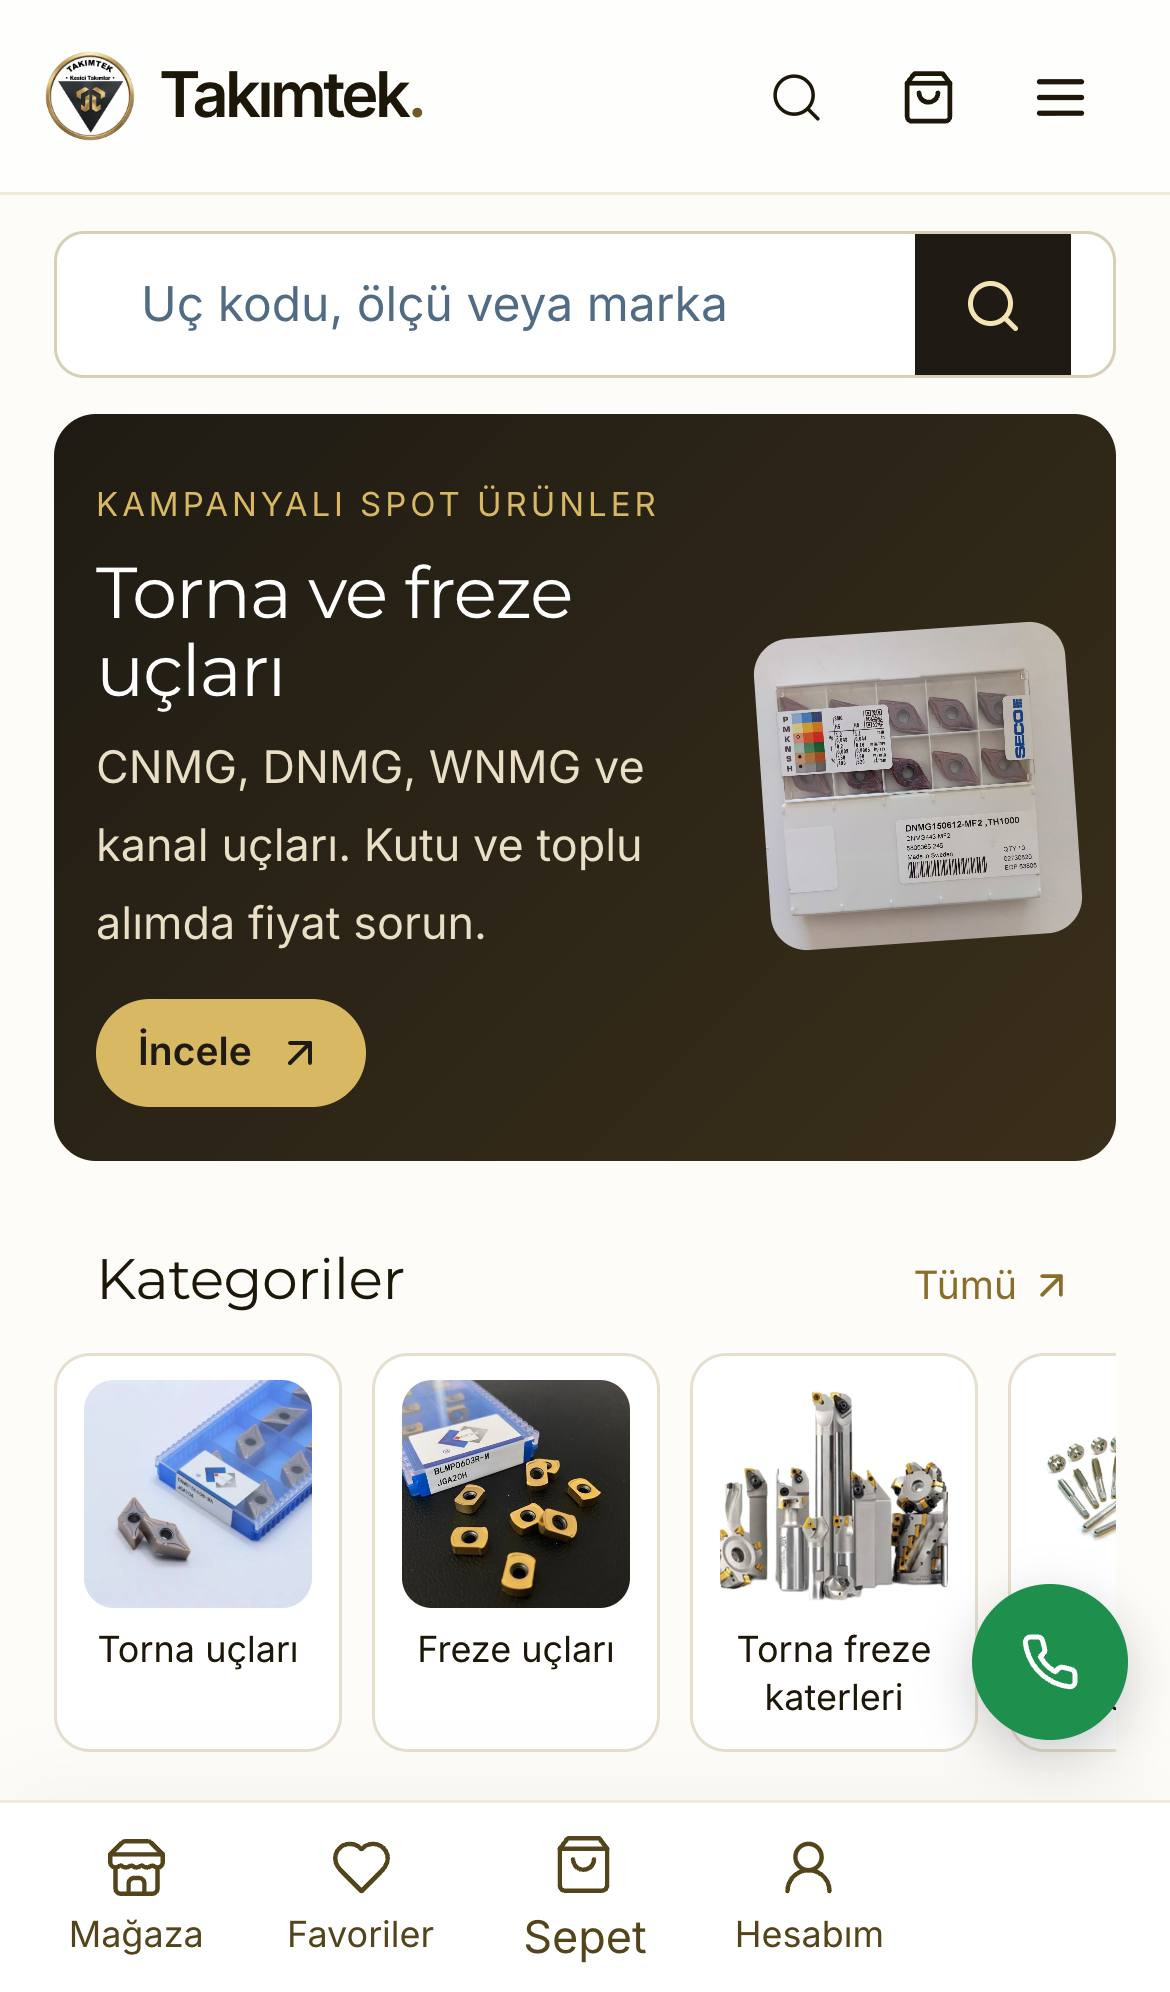
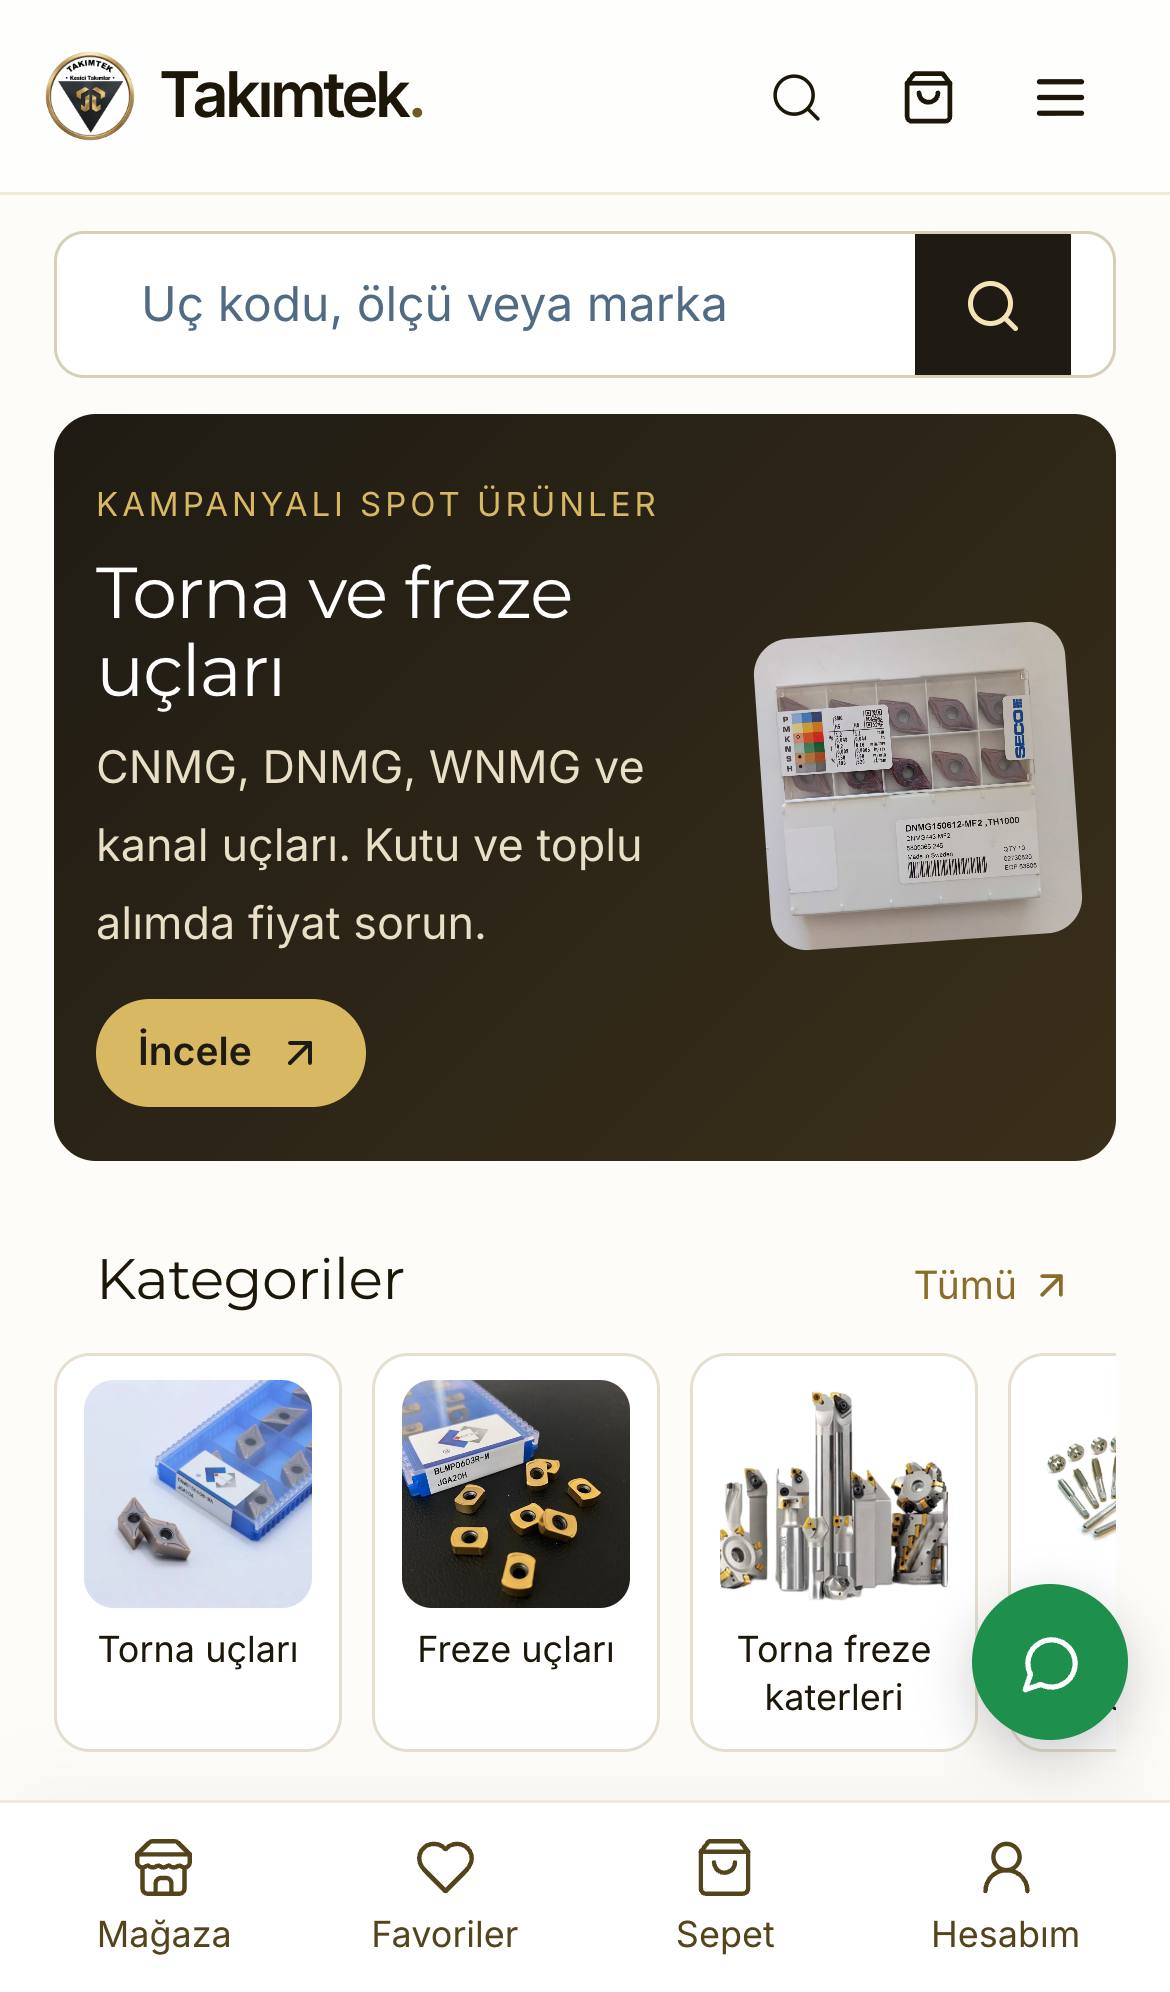
Mac and iPhone mockups on project pages; link active work to demos

diff --git a/src/components/world/Workshop.tsx b/src/components/world/Workshop.tsx
@@ -100,6 +100,7 @@ export function Workshop() {
       <div className="world-items">{region.panel.items.map(item => <article key={item.title.en} className={item.level ? `world-level-${item.level}` : undefined}>
         <h3>{item.active && <i className="world-live" aria-label={tr ? "Devam ediyor" : "Current"} />}{item.title[language]}</h3><p>{item.description[language]}</p>
         {item.tags && <ul className="world-tags">{item.tags.map(tag => <li key={tag}>{tag}</li>)}</ul>}
+        {item.href && <Link className="world-item-link" href={item.href}>{tr ? "Demoyu ve ekranları gör" : "See the demo and screens"}<ArrowUpRight size={14} /></Link>}
       </article>)}</div>
       {region.panel.link && <Link className="world-action" href={region.panel.link.href}>{region.panel.link.label[language]}<ArrowUpRight size={16} /></Link>}
       {region.id === "iletisim" && contact}
@@ -130,7 +131,7 @@ export function Workshop() {
         <p className="world-title">{tr ? <>Yazılım mühendisi<br />Full stack ve otomasyon</> : <>Software engineer<br />Full stack and automation</>}</p>
         </div><Image src="/emir.jpg" width={480} height={480} alt="Emir Aydın" className="world-photo" priority /></div>
         <div className="world-roles">{currentRoles.map((role, index) => <p key={role.company} className={`world-role-${index + 1}`}><strong><i className="world-live" aria-label={tr ? "Devam ediyor" : "Current"} />{role.company}</strong><span>{role.role[language]}</span></p>)}</div>
-        <div className="world-now"><p className="world-now-head"><i className="world-live" />{tr ? "Şu an üretimde" : "In production now"}</p>{activeProjects.map(item => <button key={item.title.en} onClick={() => open("aktif")}><span>{item.title[language]}</span><ArrowUpRight size={14} /></button>)}</div>
+        <div className="world-now"><p className="world-now-head"><i className="world-live" />{tr ? "Şu an üretimde" : "In production now"}</p>{activeProjects.map(item => item.href ? <Link key={item.title.en} href={item.href}><span>{item.title[language]}</span><ArrowUpRight size={14} /></Link> : <button key={item.title.en} onClick={() => open("aktif")}><span>{item.title[language]}</span><ArrowUpRight size={14} /></button>)}</div>
         <p className="world-intro">{tr ? "Aile atölyemizde CNC tornanın teknik tarafındayım, Adaant Bilişim Teknolojileri'nde full stack developer olarak çalışıyorum. Küçük işletmelere satış siteleri ve iş takip araçları yapıyorum." : "I handle the technical side of our family CNC turning shop and work as a full stack developer at Adaant Bilişim Teknolojileri. I also build sales websites and job-tracking tools for small businesses."}</p>
         <div className="world-primary-actions"><a href={siteConfig.links.email}>{tr ? "E-posta yaz" : "Send an email"}<ArrowUpRight size={16} /></a><a href={siteConfig.cvPaths[language]} download>{tr ? "CV indir" : "Download CV"}<Download size={16} /></a></div>
         <nav className="world-index" aria-label={tr ? "Atölye bölgeleri" : "Workshop regions"}>{worldRegions.map(region => <button key={region.id} onClick={() => open(region.id)}><span style={{ color: region.color }}>{String(region.hotkey).padStart(2, "0")}</span><span><strong>{region.name[language]}</strong><small>{region.description[language]}</small></span><ArrowUpRight size={15} /></button>)}</nav>
@@ -138,7 +139,7 @@ export function Workshop() {
     </section>
 
     <section className="world-mobile-index" aria-label={tr ? "Atölye bölgeleri" : "Workshop regions"}>
-      <div className="world-mobile-intro"><div className="world-hero"><h1>{siteConfig.name}</h1><Image src="/emir.jpg" width={480} height={480} alt="Emir Aydın" className="world-photo" /></div><p>{tr ? "Yazılım mühendisi · full stack ve otomasyon" : "Software engineer · full stack and automation"}</p><p>{currentRoles.map(role => role.company).join(" · ")}</p><div className="world-now world-now-mobile"><p className="world-now-head"><i className="world-live" />{tr ? "Şu an üretimde" : "In production now"}</p>{activeProjects.map(item => <button key={item.title.en} onClick={() => open("aktif")}><span>{item.title[language]}</span><ArrowUpRight size={14} /></button>)}</div><div className="world-primary-actions"><a href={siteConfig.links.email}>{tr ? "E-posta yaz" : "Send an email"}</a><a href={siteConfig.cvPaths[language]} download>{tr ? "CV indir" : "Download CV"}</a></div></div>
+      <div className="world-mobile-intro"><div className="world-hero"><h1>{siteConfig.name}</h1><Image src="/emir.jpg" width={480} height={480} alt="Emir Aydın" className="world-photo" /></div><p>{tr ? "Yazılım mühendisi · full stack ve otomasyon" : "Software engineer · full stack and automation"}</p><p>{currentRoles.map(role => role.company).join(" · ")}</p><div className="world-now world-now-mobile"><p className="world-now-head"><i className="world-live" />{tr ? "Şu an üretimde" : "In production now"}</p>{activeProjects.map(item => item.href ? <Link key={item.title.en} href={item.href}><span>{item.title[language]}</span><ArrowUpRight size={14} /></Link> : <button key={item.title.en} onClick={() => open("aktif")}><span>{item.title[language]}</span><ArrowUpRight size={14} /></button>)}</div><div className="world-primary-actions"><a href={siteConfig.links.email}>{tr ? "E-posta yaz" : "Send an email"}</a><a href={siteConfig.cvPaths[language]} download>{tr ? "CV indir" : "Download CV"}</a></div></div>
       {worldRegions.map(region => <button key={region.id} onClick={() => open(region.id)}><span style={{ color: region.color }}>{String(region.hotkey).padStart(2, "0")}</span><span><strong>{region.name[language]}</strong><small>{region.description[language]}</small></span><ArrowUpRight size={18} /></button>)}
     </section>
     <dialog ref={dialog} className="world-sheet" aria-labelledby={selected ? `sheet-title-${selected.id}` : undefined} onCancel={event => { event.preventDefault(); close(); }} onClick={event => { if (event.target === event.currentTarget) { const bounds = event.currentTarget.getBoundingClientRect(); if (event.clientY < bounds.top || event.clientX < bounds.left || event.clientX > bounds.right) close(); } }}>

diff --git a/src/data/world.ts b/src/data/world.ts
@@ -2,7 +2,7 @@ import { currentlyBuildingProjects, siteConfig } from "./site";
 import { careerTimeline } from "./career";
 
 type Text = { tr: string; en: string };
-export interface WorldItem { title: Text; description: Text; tags?: readonly string[]; level?: 1 | 2 | 3; active?: boolean }
+export interface WorldItem { title: Text; description: Text; tags?: readonly string[]; level?: 1 | 2 | 3; active?: boolean; href?: string }
 export interface WorldRegion {
   id: string;
   hotkey: number;
@@ -29,8 +29,8 @@ export const worldContactLinks = [
 ];
 
 export const activeProjects: WorldItem[] = [
-  { title: { tr: "Telefon servis ve satış sitesi", en: "Phone repair and sales website" }, description: { tr: "Bir telefon dükkânı için satış ve teknik servis sitesi. Dükkân sahibi ürünü telefonundan ekliyor, siparişler havale ve WhatsApp ile geliyor. Altyapıyı başka dükkânlara da kurulabilecek şekilde hazırladım.", en: "A sales and repair website for a phone shop. The owner adds products from their phone, and orders come in by bank transfer or WhatsApp. I built it so it can be set up for other shops too." }, tags: ["Next.js", "Supabase", "Vercel"] },
-  { title: { tr: "Kesici takım mağazası", en: "Cutting tools store" }, description: { tr: "Kesici takım ve teknik hırdavat satan bir tedarikçi için mağaza. Uç koduyla arama, kategori ve marka listeleri, mobilden ürün ekleme. Telefon mağazasıyla aynı altyapıyı kullanıyor.", en: "A store for a supplier of cutting tools and workshop supplies: search by insert code, category and brand lists, product entry from a phone. It runs on the same base as the phone store." }, tags: ["Next.js", "Supabase", "Vercel"] },
+  { href: "/projects/telefon-magazasi", title: { tr: "Telefon servis ve satış sitesi", en: "Phone repair and sales website" }, description: { tr: "Bir telefon dükkânı için satış ve teknik servis sitesi. Dükkân sahibi ürünü telefonundan ekliyor, siparişler havale ve WhatsApp ile geliyor. Altyapıyı başka dükkânlara da kurulabilecek şekilde hazırladım.", en: "A sales and repair website for a phone shop. The owner adds products from their phone, and orders come in by bank transfer or WhatsApp. I built it so it can be set up for other shops too." }, tags: ["Next.js", "Supabase", "Vercel"] },
+  { href: "/projects/kesici-takim-magazasi", title: { tr: "Kesici takım mağazası", en: "Cutting tools store" }, description: { tr: "Kesici takım ve teknik hırdavat satan bir tedarikçi için mağaza. Uç koduyla arama, kategori ve marka listeleri, mobilden ürün ekleme. Telefon mağazasıyla aynı altyapıyı kullanıyor.", en: "A store for a supplier of cutting tools and workshop supplies: search by insert code, category and brand lists, product entry from a phone. It runs on the same base as the phone store." }, tags: ["Next.js", "Supabase", "Vercel"] },
   { title: { tr: "Torna AI CAD", en: "Torna AI CAD" }, description: { tr: "Atölyemizde teknik resimleri CAD çizimine dönüştürmeyi hızlandıran araç. Geliştirmesi sürüyor.", en: "A tool for turning technical drawings into CAD models faster in our workshop. Still in development." }, tags: ["Python"] },
 ];
 

diff --git a/src/app/globals.css b/src/app/globals.css
@@ -107,3 +107,19 @@
 .site-action { display: inline-flex; align-items: center; gap: 8px; min-height: 44px; padding: 10px 14px; border: 1px solid #344155; border-radius: 8px; font-size: 13px; }
 .site-action:hover { background: #ffffff08; }
 .site-page :is(a, button):focus-visible { outline: 2px solid #b8d4ff; outline-offset: 4px; }
+
+/* Device mockups for project pages */
+.device-stage { position: relative; margin-top: 32px; padding: clamp(24px, 5vw, 56px) clamp(16px, 4vw, 56px) clamp(32px, 6vw, 72px); border-radius: 20px; background: radial-gradient(120% 90% at 30% 10%, #1d3150 0%, #0d1726 55%, #091120 100%); border: 1px solid #22324a; overflow: hidden; }
+.mac { width: min(100%, 860px); margin: 0 auto; }
+.mac-screen { background: #0b0d10; border: 1px solid #3a3f48; border-radius: 16px 16px 4px 4px; padding: 14px 14px 18px; box-shadow: 0 30px 60px #0009; }
+.mac-bar { display: flex; align-items: center; gap: 6px; height: 26px; padding: 0 10px; background: #23262c; border-radius: 6px 6px 0 0; }
+.mac-bar i { width: 10px; height: 10px; border-radius: 50%; background: #ff5f57; }
+.mac-bar i:nth-child(2) { background: #febc2e; } .mac-bar i:nth-child(3) { background: #28c840; }
+.mac-bar span { flex: 1; margin: 0 40px; height: 16px; border-radius: 5px; background: #33373e; color: #9aa3ae; font-size: 10px; line-height: 16px; text-align: center; overflow: hidden; white-space: nowrap; text-overflow: ellipsis; }
+.mac-screen img { display: block; width: 100%; border-radius: 0 0 4px 4px; }
+.mac-base { position: relative; height: 16px; margin: 0 -6%; background: linear-gradient(#c9ced6, #8e949e); border-radius: 0 0 14px 14px; }
+.mac-base::before { content: ""; position: absolute; left: 50%; top: 0; width: 18%; height: 6px; transform: translateX(-50%); background: #a4aab4; border-radius: 0 0 8px 8px; }
+.iphone { position: absolute; right: clamp(12px, 5vw, 64px); bottom: clamp(16px, 3vw, 36px); width: clamp(120px, 21%, 210px); padding: 7px; background: #111; border: 2px solid #3b3f46; border-radius: clamp(22px, 3.4vw, 40px); box-shadow: 0 24px 50px #000a, inset 0 0 0 1px #000; }
+.iphone::before { content: ""; position: absolute; top: 12px; left: 50%; width: 30%; height: 3.4%; transform: translateX(-50%); background: #000; border-radius: 99px; z-index: 1; }
+.iphone img { display: block; width: 100%; height: auto; border-radius: clamp(16px, 2.8vw, 32px); }
+@media (max-width: 640px) { .iphone { position: relative; right: auto; bottom: auto; margin: -40px auto 0; width: 44%; } }

diff --git a/src/app/projects/[slug]/page.tsx b/src/app/projects/[slug]/page.tsx
@@ -20,10 +20,10 @@ export default function CaseStudyPage({ params }: { params: Promise<{ slug: stri
       {project.technologies && <ul className="flex flex-wrap gap-2 text-xs text-slate-300">{project.technologies.map(tech => <li key={tech} className="rounded border border-[#303c50] px-3 py-1">{tech}</li>)}</ul>}
       {project.demo && <div className="flex flex-wrap items-center gap-4"><a href={project.demo} target="_blank" rel="noreferrer" className="inline-flex items-center gap-2 rounded-lg bg-[#c2d8ff] px-4 py-3 text-sm font-medium text-[#10213c]">{tr ? "Demoyu aç" : "Open the demo"}<ArrowUpRight size={16} /></a><span className="text-xs text-slate-400">{tr ? "Ürünler ve fiyatlar örnektir; sipariş oluşturulmaz." : "Products and prices are samples; no orders are placed."}</span></div>}
     </div>
-    {project.screens && <div className="mt-8 grid gap-6 md:grid-cols-[3fr_1fr] items-start">
-      <figure className="site-card !p-3"><img src={project.screens.desktop} alt={tr ? `${project.name.tr}, bilgisayar görünümü` : `${project.name.en}, desktop view`} className="w-full rounded-lg" /><figcaption className="mt-2 text-xs text-slate-400">{tr ? "Bilgisayar" : "Desktop"}</figcaption></figure>
-      <figure className="site-card !p-3 max-w-[280px] mx-auto md:max-w-none"><img src={project.screens.mobile} alt={tr ? `${project.name.tr}, telefon görünümü` : `${project.name.en}, phone view`} className="w-full rounded-lg" /><figcaption className="mt-2 text-xs text-slate-400">{tr ? "Telefon" : "Phone"}</figcaption></figure>
-    </div>}
+    {project.screens && <figure className="device-stage" aria-label={tr ? "Bilgisayar ve telefon görünümü" : "Desktop and phone view"}>
+      <div className="mac"><div className="mac-screen"><div className="mac-bar"><i /><i /><i /><span>{project.demo?.replace("https://", "")}</span></div><img src={project.screens.desktop} alt={tr ? `${project.name.tr}, bilgisayar görünümü` : `${project.name.en}, desktop view`} /></div><div className="mac-base" /></div>
+      <div className="iphone"><img src={project.screens.mobile} alt={tr ? `${project.name.tr}, telefon görünümü` : `${project.name.en}, phone view`} /></div>
+    </figure>}
     {project.features && <div className="site-card mt-8"><h2 className="text-lg font-medium mb-4">{tr ? "Neler var?" : "What it does"}</h2><ul className="space-y-2 text-sm text-slate-300 list-disc pl-5">{project.features[language].map(item => <li key={item}>{item}</li>)}</ul></div>}
   </article>;
 }

diff --git a/src/components/world/workshop.css b/src/components/world/workshop.css
@@ -93,8 +93,8 @@
 @keyframes world-pulse { 0% { box-shadow: 0 0 0 0 #5ee39b88; } 70%, 100% { box-shadow: 0 0 0 7px #5ee39b00; } }
 .world-now { margin-top: 22px; border: 1px solid #2e4a70; background: #0f2036; border-radius: 10px; padding: 12px 14px; display: grid; gap: 2px; }
 .world-now-head { font-size: 12px; color: #a8f0c6; margin-bottom: 6px; }
-.world-now button { display: flex; align-items: center; justify-content: space-between; gap: 10px; min-height: 36px; text-align: left; font-size: 13px; color: #e6eefb; }
-.world-now button:hover { color: #b8d4ff; }
+.world-now :is(button, a) { display: flex; align-items: center; justify-content: space-between; gap: 10px; min-height: 36px; text-align: left; font-size: 13px; color: #e6eefb; }
+.world-now :is(button, a):hover { color: #b8d4ff; }
 .world-now-mobile { margin: 16px 0 0; }
 .world-gears { position: absolute; left: 66%; top: 29%; width: 7%; aspect-ratio: 1; pointer-events: none; z-index: 1; }
 .world-gear { position: absolute; inset: 0; width: 100%; height: 100%; fill: #9cc6ff; opacity: .9; filter: drop-shadow(0 0 6px #6aa8ff99); animation: world-spin 6s linear infinite; }
@@ -115,3 +115,5 @@
 .world-items .world-level-3 { opacity: .62; padding-bottom: 14px; }
 .world-items .world-level-3 h3 { font-size: 13px; margin-bottom: 4px; }
 .world-items .world-level-3 p { font-size: 12px; line-height: 1.6; }
+.world-item-link { display: inline-flex; align-items: center; gap: 6px; margin-top: 12px; font-size: 13px; color: #b8d4ff; }
+.world-item-link:hover { text-decoration: underline; }
